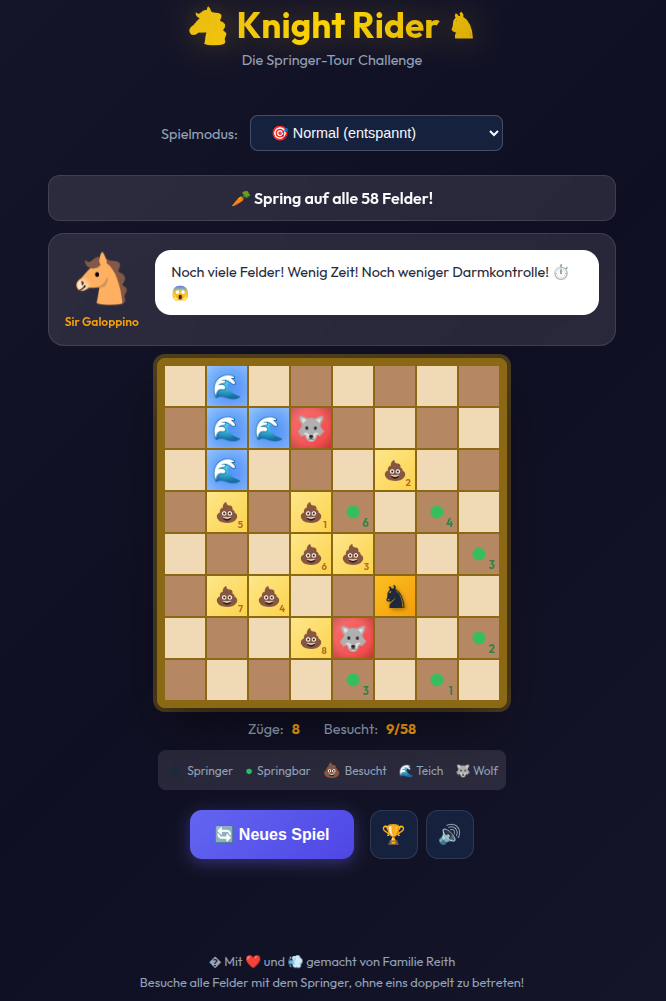
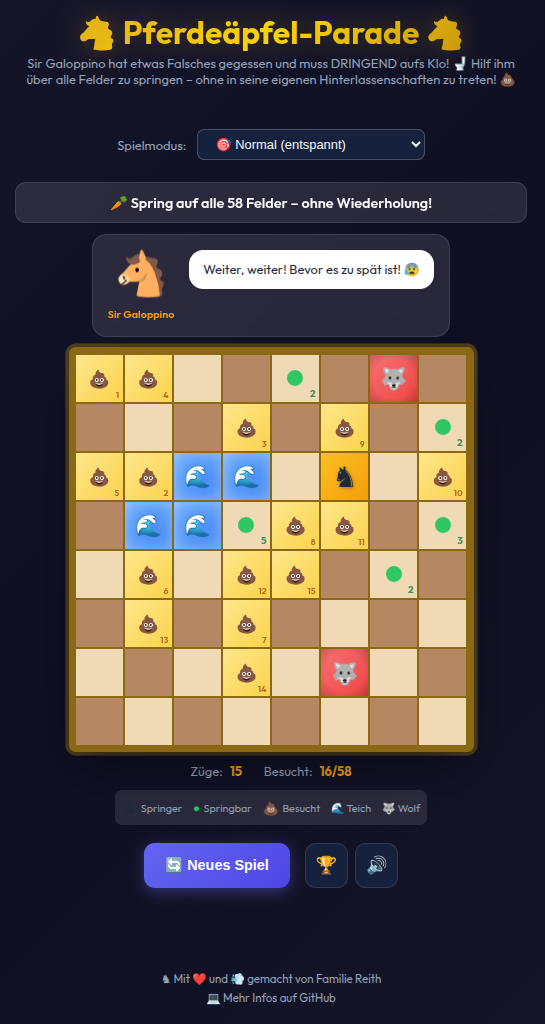
Leaderboard and  GUI improved

diff --git a/js/leaderboard.js b/js/leaderboard.js
@@ -11,6 +11,9 @@ const LEADERBOARD_CONFIG = {
 // Cache for leaderboard entries
 let allLeaderboardEntries = [];
 
+// Track the last saved entry to highlight it
+let lastSavedEntry = null;
+
 // Initialize filter listeners
 document.addEventListener('DOMContentLoaded', () => {
     const modeFilter = document.getElementById('mode-filter');
@@ -79,6 +82,15 @@ async function saveHighscore(name, score, moves, mode) {
             method: 'GET',
             mode: 'cors'
         });
+
+        // Track the saved entry for highlighting
+        lastSavedEntry = {
+            name: name,
+            score: score,
+            mode: mode,
+            timestamp: Date.now()
+        };
+
         return true;
     } catch (error) {
         console.error("Fehler beim Speichern:", error);
@@ -137,11 +149,24 @@ function renderLeaderboard(entries) {
     if (!tbody) return;
 
     const topEntries = entries.slice(0, 50);
+    let alreadyHighlighted = false; // Track if we've already highlighted one entry
 
     tbody.innerHTML = topEntries.map((entry, index) => {
         const rank = index + 1;
         let rankDisplay = rank;
         let rankClass = '';
+        let isHighlighted = false;
+
+        // Check if this is the just-saved entry (within last 30 seconds) - only highlight ONE entry
+        if (!alreadyHighlighted &&
+            lastSavedEntry &&
+            (Date.now() - lastSavedEntry.timestamp) < 30000 &&
+            entry.name === lastSavedEntry.name &&
+            Number(entry.score) === Number(lastSavedEntry.score) &&
+            (entry.difficulty || entry.mode || '').toLowerCase() === lastSavedEntry.mode.toLowerCase()) {
+            isHighlighted = true;
+            alreadyHighlighted = true; // Don't highlight any more entries
+        }
 
         if (rank === 1) {
             rankDisplay = `🥇 ${rank}`;
@@ -175,8 +200,10 @@ function renderLeaderboard(entries) {
         const modeIcon = mode.toLowerCase() === 'speedrun' ? '⏱' : '🎯';
         const safeMode = `${modeIcon} ${escapeHtml(mode)}`;
 
+        const rowClass = isHighlighted ? 'highlighted-row' : '';
+
         return `
-            <tr>
+            <tr class="${rowClass}">
                 <td class="${rankClass}" style="font-size: 1.1em;">${rankDisplay}</td>
                 <td style="font-weight: 500">${safeName}</td>
                 <td style="font-weight: bold">${safeScore}</td>

diff --git a/js/knight.js b/js/knight.js
@@ -176,6 +176,25 @@ const KNIGHT_CHARACTER = {
             "WELTREKORD! In beiden Kategorien! 🌍🏆💩"
         ],
 
+        // Partial win (40+ fields but not completed) - 15 messages
+        partialWin: [
+            "Okay, 40+ Felder! Das zählt! *erleichtertes Seufzen* 🎊💨",
+            "Nicht perfekt, aber RESPEKTABEL! Jetzt aber zur Toilette! 🥈🚽",
+            "Mehr als die Hälfte! Mein Darm ist beeindruckt! *grummel* 👏💩",
+            "Fast geschafft! Aber 'fast' reicht für jetzt! AUFS KLO! 🏃♂💨",
+            "Gute Leistung! Kein Sieg, aber auch keine Schande! *stolzer Pups* 💨🎖",
+            "40+ Felder! Das ist mehr als mancher Ritter je schafft! 🛡✨",
+            "Teilsieg! Besser als Totalversagen! Ab zum WC! 🚽🎉",
+            "Nicht alle Felder, aber genug für die Ehre! Und jetzt: ERLEICHTERUNG! 😅💩",
+            "Beachtlich! Sir Galoppino ist ein bisschen stolz! *bescheidener Furz* 💨🥉",
+            "Das war ordentlich! Ordentlicher als mein Darm gerade! 📊💩",
+            "Kein perfekter Lauf, aber ein guter! *zufriedenes Grummeln* 🐴✅",
+            "40+ ist das neue 58! Zumindest sage ich das jetzt! 😅🏆",
+            "Halb gewonnen ist gar nicht verloren! Jetzt aber WC! 🚽🏃♂",
+            "Respektable Tour! Mein Hintern applaudiert! *klatsch* 👏💨",
+            "Gut gemacht! Nicht perfekt, aber mein Magen verzeiht! 🎊😌"
+        ],
+
         // Idle / thinking (20 messages)
         idle: [
             "*tappel tappel* Denk nach, denk nach! *grummel* 🤔💨",

diff --git a/js/ui.js b/js/ui.js
@@ -269,11 +269,13 @@ class KnightRiderUI {
         let statusText;
 
         if (state === 'start') {
-            statusText = '🏇 Hoppla Galoppa – kein Feld doppelt betreten!';
+            statusText = '🏇 Setze Sir Galoppino irgendwo auf\'s Brett!';
         } else if (state === 'playing') {
-            statusText = `🥕 Spring auf alle ${this.game.getVisitableCount()} Felder!`;
+            statusText = `🥕 Spring auf alle ${this.game.getVisitableCount()} Felder – ohne Wiederholung!`;
         } else if (state === 'win') {
             statusText = getKnightMessage('win');
+        } else if (state === 'partialWin') {
+            statusText = getKnightMessage('partialWin');
         } else if (state === 'lose') {
             statusText = getKnightMessage('stuck');
         } else {
@@ -299,6 +301,11 @@ class KnightRiderUI {
             this.updateStatus('win');
             this.setKnightSpeech(getKnightMessage('win'));
             this.sounds.playWin();
+        } else if (this.game.visitedCount >= 40) {
+            // Partial win - 40+ fields is a respectable achievement!
+            this.updateStatus('partialWin');
+            this.setKnightSpeech(getKnightMessage('partialWin'));
+            this.sounds.playPartialWin();
         } else {
             this.updateStatus('lose');
             this.setKnightSpeech(getKnightMessage('stuck'));

diff --git a/index.html b/index.html
@@ -6,7 +6,7 @@
     <meta name="viewport" content="width=device-width, initial-scale=1.0, user-scalable=no">
     <meta name="description" content="Knight Rider - Die lustige Springer-Tour Challenge mit dem verzweifelten Ritter">
     <meta name="theme-color" content="#1a1a2e">
-    <title>Knight Rider - Springer-Tour Challenge 🐴</title>
+    <title>Pferdeäpfel-Parade - Springer-Tour Challenge 🐴</title>
 
     <!-- Google Fonts -->
     <link rel="preconnect" href="https://fonts.googleapis.com">
@@ -21,7 +21,7 @@
     <div class="app-container">
         <!-- Header -->
         <header class="header">
-            <h1>🐴 Knight Rider 🐴</h1>
+            <h1>🐴 Pferdeäpfel-Parade 🐴</h1>
             <p class="subtitle">Sir Galoppino hat etwas Falsches gegessen und muss DRINGEND aufs Klo! 🚽 Hilf ihm über
                 alle Felder zu springen – ohne in seine eigenen Hinterlassenschaften zu treten! 💩</p>
         </header>
@@ -43,7 +43,7 @@
         <main class="game-area">
             <!-- Status -->
             <div id="game-status" class="game-status">
-                🏇 Hoppla Galoppa – kein Feld doppelt betreten!
+                🏇 Setze Sir Galoppino irgendwo auf's Brett!
             </div>
 
             <!-- Knight Character Speech Bubble (now above board) -->

diff --git a/js/sound.js b/js/sound.js
@@ -114,6 +114,33 @@ class SoundManager {
         }
     }
 
+    // Partial win sound - short positive jingle (not as grand as full win)
+    playPartialWin() {
+        if (this.isMuted || !this.ctx) return;
+
+        // Short ascending notes
+        const notes = [440, 554, 659]; // A4, C#5, E5 - hopeful but not triumphant
+
+        notes.forEach((freq, i) => {
+            const osc = this.ctx.createOscillator();
+            const gain = this.ctx.createGain();
+
+            osc.connect(gain);
+            gain.connect(this.ctx.destination);
+
+            osc.frequency.setValueAtTime(freq, this.ctx.currentTime + i * 0.12);
+            gain.gain.setValueAtTime(0.18, this.ctx.currentTime + i * 0.12);
+            gain.gain.exponentialRampToValueAtTime(0.01, this.ctx.currentTime + i * 0.12 + 0.25);
+
+            osc.start(this.ctx.currentTime + i * 0.12);
+            osc.stop(this.ctx.currentTime + i * 0.12 + 0.25);
+        });
+
+        // Add just a couple hoof sounds
+        setTimeout(() => this.playMove(), 500);
+        setTimeout(() => this.playMove(), 600);
+    }
+
     // Lose sound - sad trombone
     playLose() {
         if (this.isMuted || !this.ctx) return;

diff --git a/styles.css b/styles.css
@@ -206,6 +206,12 @@ body {
     animation: statusGlow 1s ease-out;
 }
 
+.game-status.partialWin {
+    background: linear-gradient(135deg, rgba(251, 191, 36, 0.3), rgba(245, 158, 11, 0.2));
+    border-color: var(--warning);
+    animation: statusGlow 1s ease-out;
+}
+
 .game-status.lose {
     background: linear-gradient(135deg, rgba(239, 68, 68, 0.3), rgba(185, 28, 28, 0.2));
     border-color: var(--danger);
@@ -814,6 +820,28 @@ body {
 
 .rank-3 {
     color: #cd7f32;
+}
+
+/* Highlighted just-submitted row */
+.leaderboard-table tr.highlighted-row td {
+    background: linear-gradient(135deg, rgba(251, 191, 36, 0.25), rgba(245, 158, 11, 0.15));
+    animation: highlightPulse 1.5s ease-in-out infinite;
+}
+
+.leaderboard-table tr.highlighted-row td:first-child {
+    border-left: 3px solid #f59e0b;
+}
+
+@keyframes highlightPulse {
+
+    0%,
+    100% {
+        background: linear-gradient(135deg, rgba(251, 191, 36, 0.25), rgba(245, 158, 11, 0.15));
+    }
+
+    50% {
+        background: linear-gradient(135deg, rgba(251, 191, 36, 0.4), rgba(245, 158, 11, 0.3));
+    }
 }
 
 /* ===== Responsive Design ===== */

diff --git a/README.md b/README.md
@@ -1,6 +1,6 @@
 <div align="center">
 
-# 🐴 Knight Rider ♞
+# 🐴 Pferdeäpfel-Parade 🐴
 
 ### 🚀 [HIER KLICKEN UND SOFORT LOSSPIELEN!](https://deepthoughtzero.github.io/knightrider/) 🚀
 
@@ -38,7 +38,7 @@ Besuche alle 58 freien Felder, ohne ein Feld doppelt zu betreten - dann erreicht
 
 ---
 
-**Knight Rider** ist ein Puzzle-Spiel basierend auf der klassischen Springer-Tour (Knight's Tour). Der Springer muss alle Felder des Schachbretts besuchen, ohne ein Feld doppelt zu betreten - und dabei einigen Hindernissen ausweichen!
+**Pferdeäpfel-Parade** ist ein Puzzle-Spiel basierend auf der klassischen Springer-Tour (Knight's Tour). Der Springer muss alle Felder des Schachbretts besuchen, ohne ein Feld doppelt zu betreten - und dabei einigen Hindernissen ausweichen!
 
 ## 🎮 Features
 
